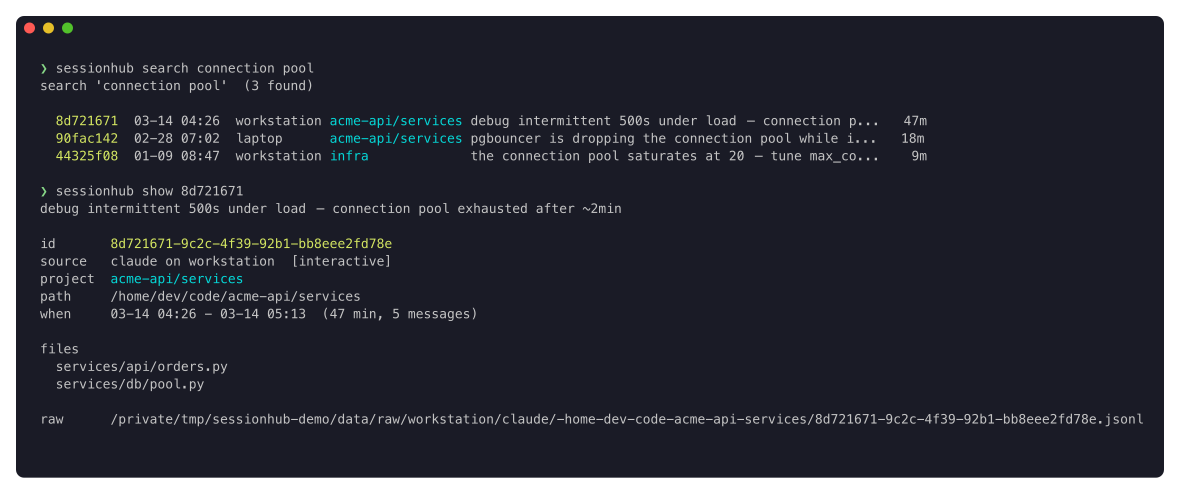
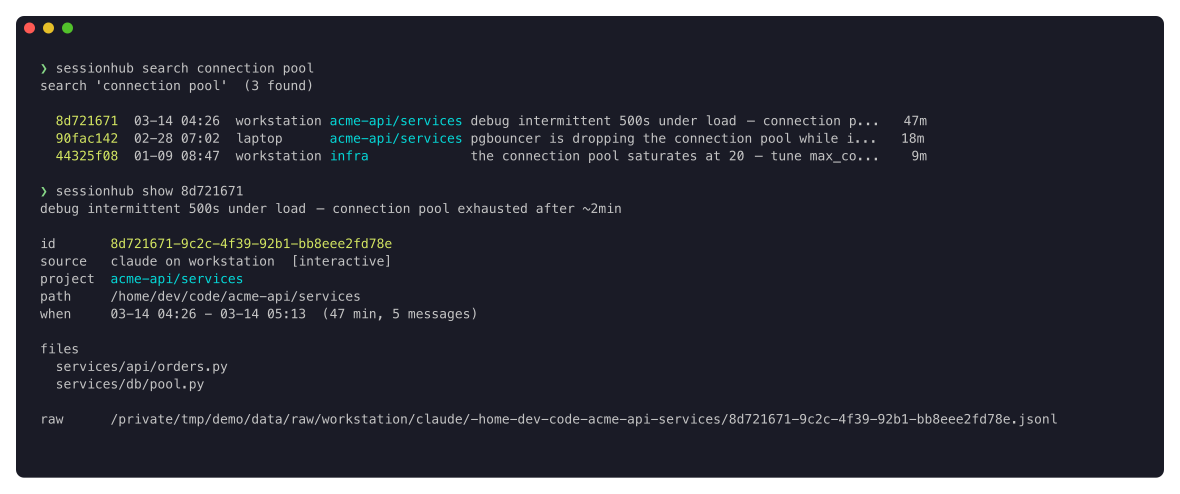
match the demo gif to the hero image and move it up
Both are 1180px wide now, so GitHub scales them identically and the text in
the gif no longer reads smaller than the still above it. Shortened the demo
archive path so the raw-transcript line fits on one line at that width.

Changed region(s): [[0.1831, 0.8198, 0.9763, 0.8806]]

diff --git a/README.md b/README.md
@@ -4,6 +4,8 @@ Search everything you've ever done with your coding agents.
 
 ![sessionhub searching months of sessions for 'connection pool', then opening one](docs/hero-dark.png)
 
+![the same, as you would run it](docs/demo.gif)
+
 ## Install
 
 ```bash
@@ -181,8 +183,6 @@ sessionhub uninstall --purge     # timer, config and database
 uv tool uninstall sessionhub
 ```
 </details>
-
-![sessionhub in use](docs/demo.gif)
 
 ## Agents
 
